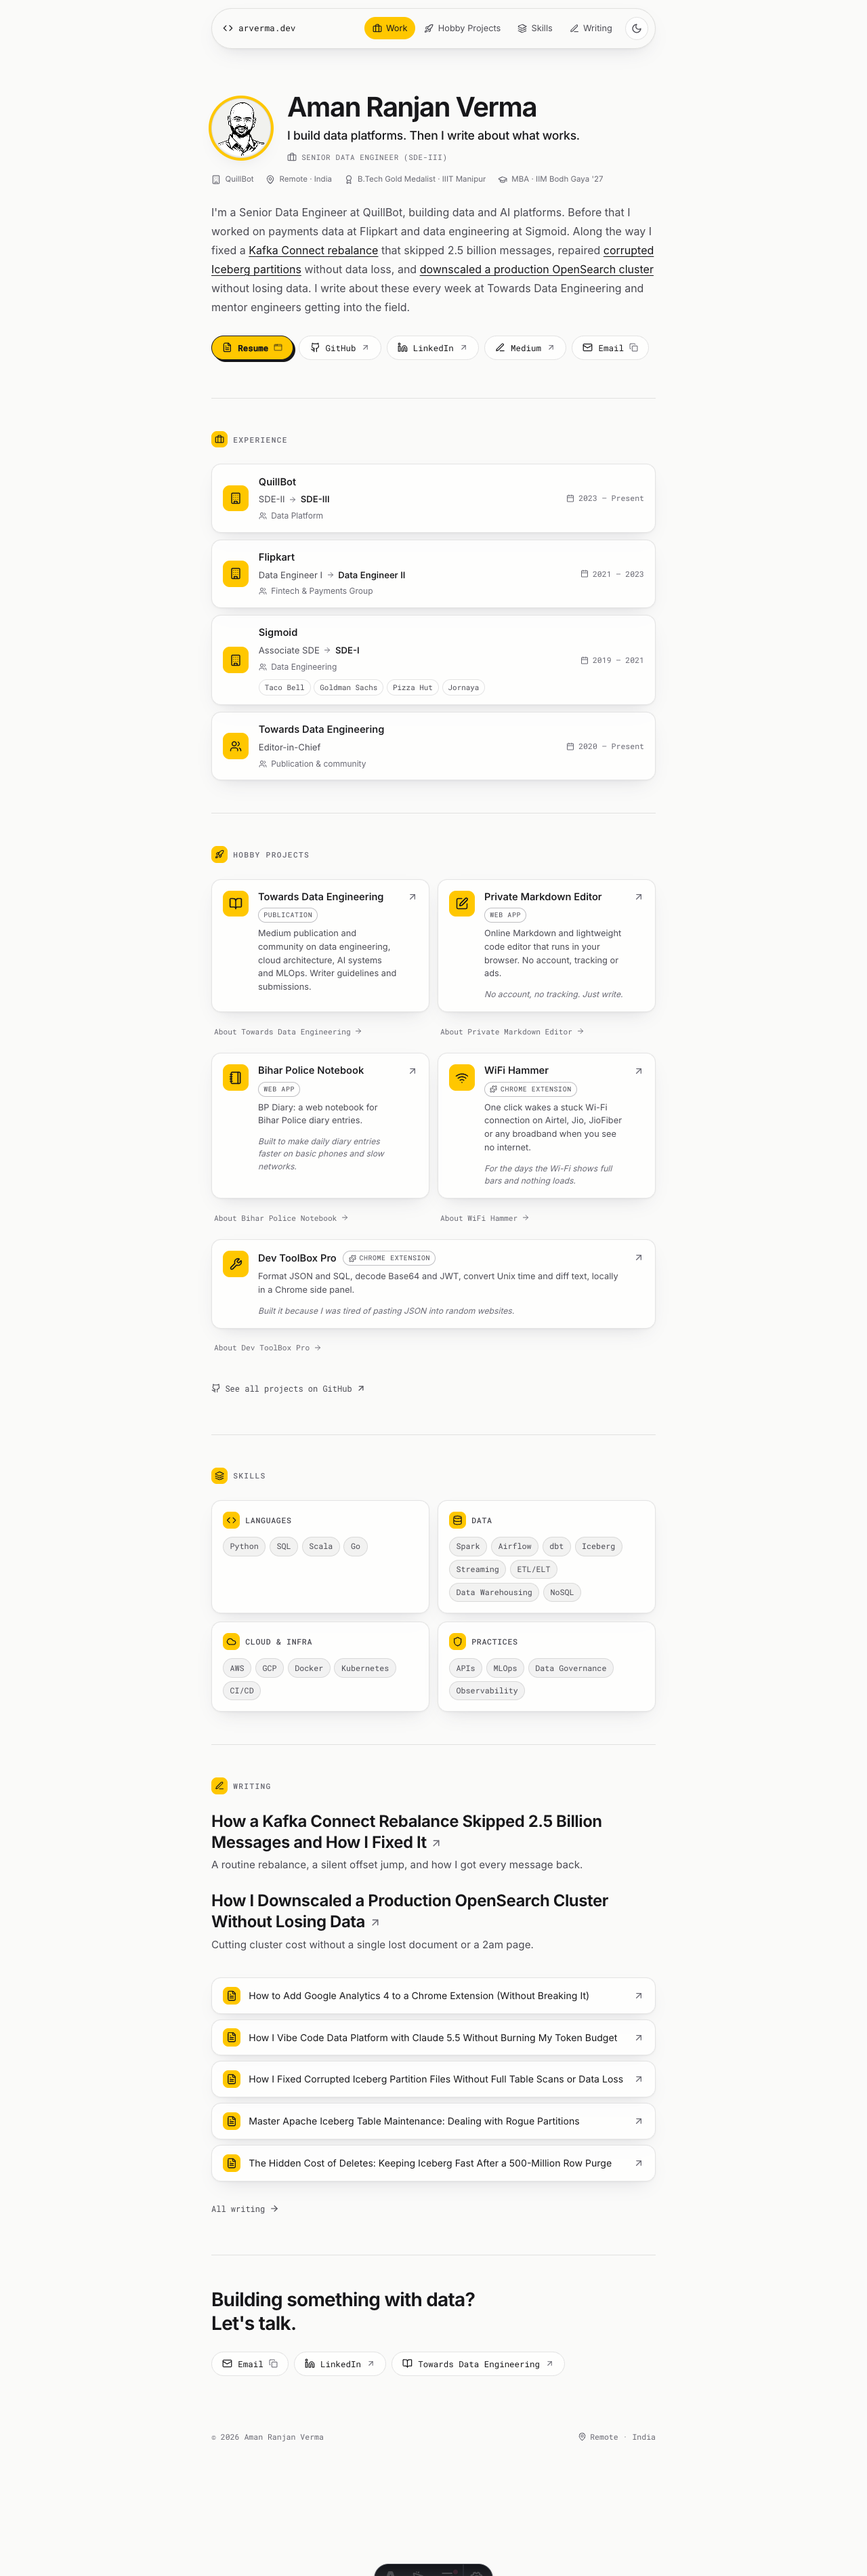
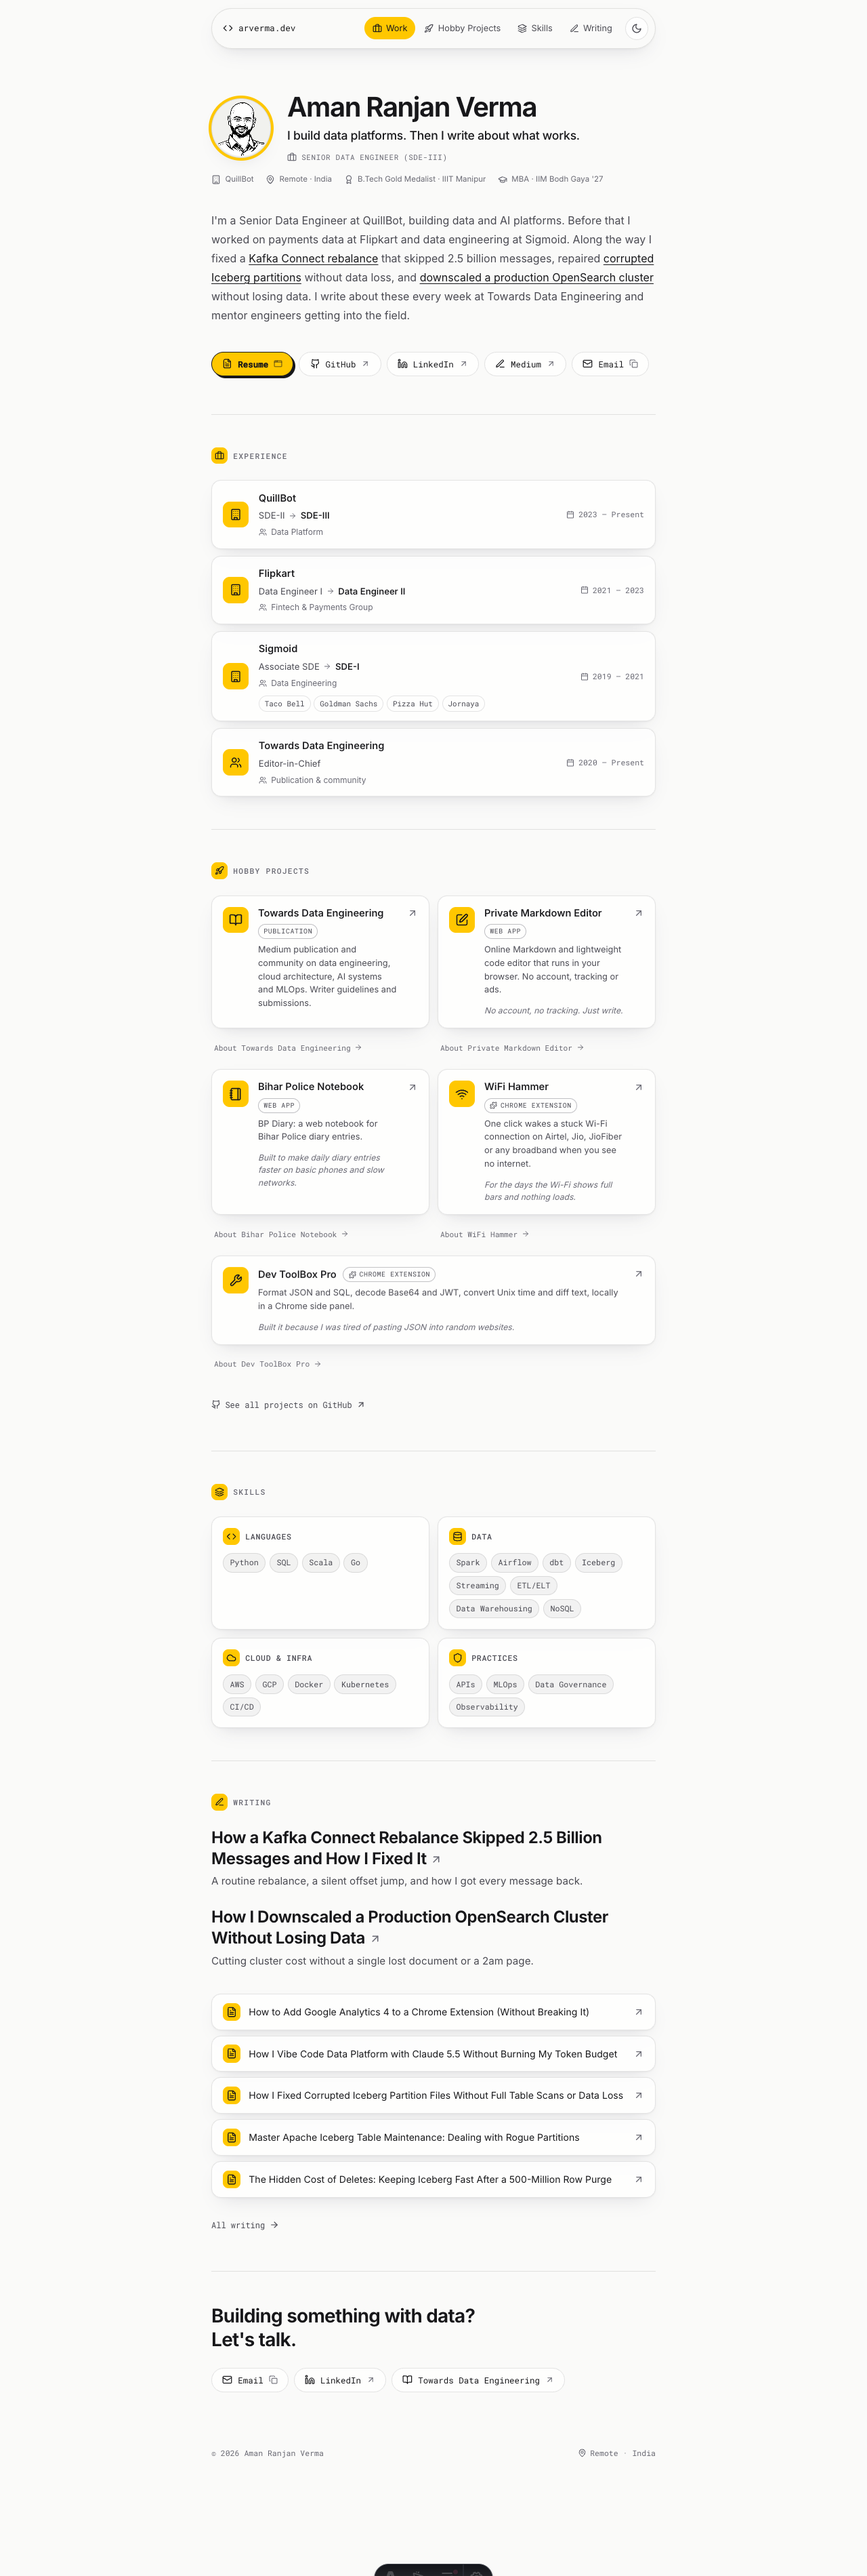
fix: more space around hero bio instead of a box

diff --git a/src/styles/global.css b/src/styles/global.css
@@ -207,7 +207,7 @@ a:hover { color: var(--ink); }
   display: flex;
   flex-wrap: wrap;
   gap: 0.3rem 1.1rem;
-  margin-bottom: 1.5rem;
+  margin-bottom: 2.25rem;
 }
 .hero-meta li {
   display: inline-flex;
@@ -221,7 +221,7 @@ a:hover { color: var(--ink); }
   color: var(--ink-2);
   font-size: 1rem;
   line-height: 1.75;
-  margin-bottom: 1.75rem;
+  margin-bottom: 2.5rem;
 }
 .hero-bio a { color: var(--ink); text-decoration: underline; text-decoration-color: var(--accent); text-underline-offset: 0.2em; text-decoration-thickness: 1px; }
 .hero-bio a:hover { color: var(--accent); }
